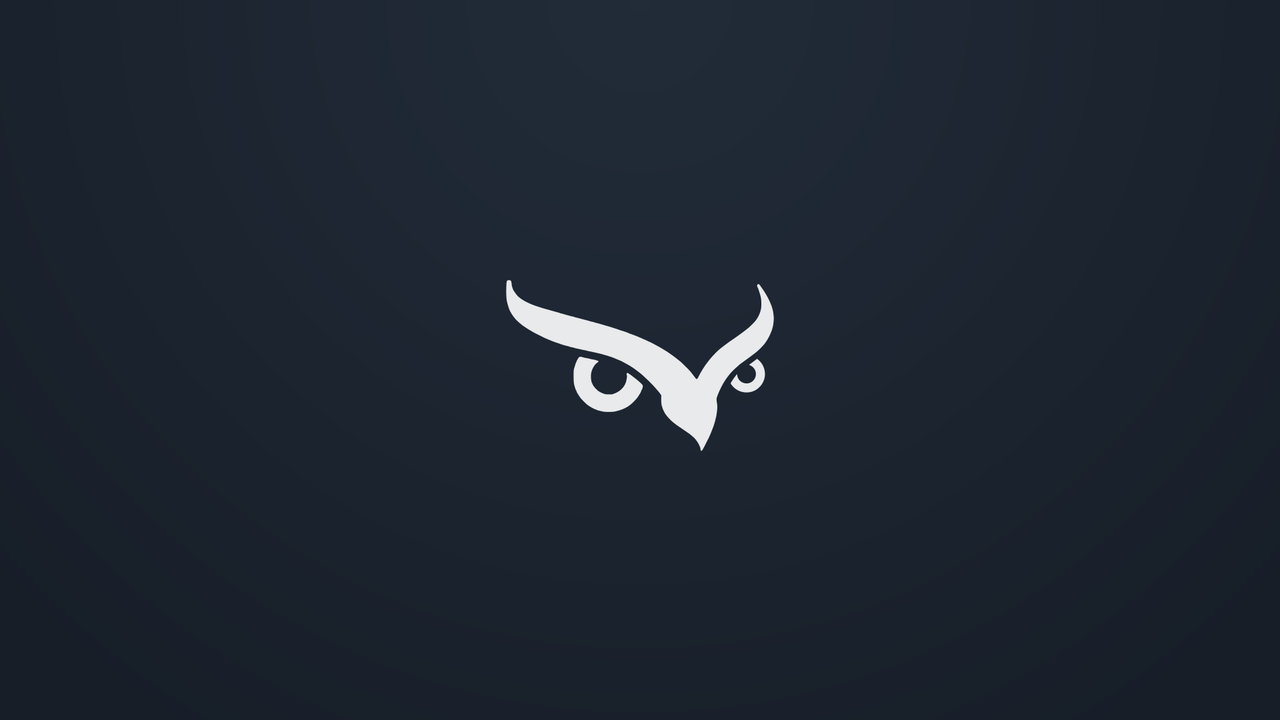
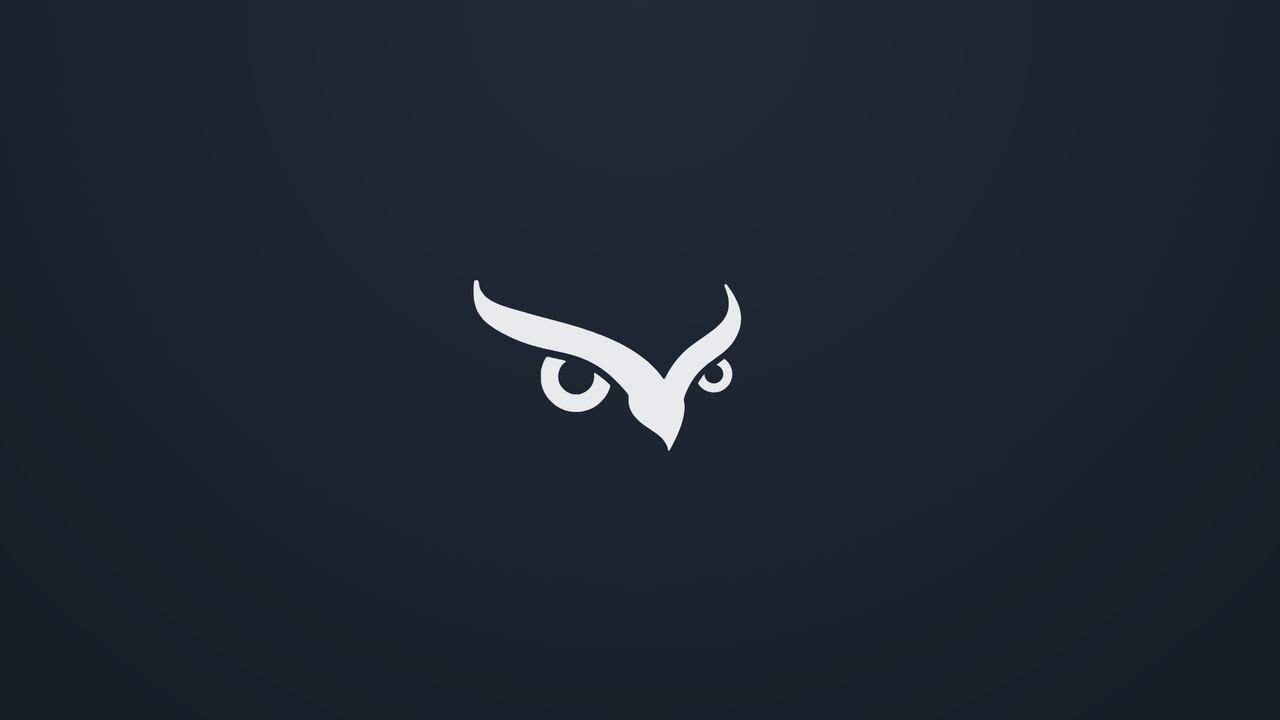
branding: centre the owl on the midpoint between its eyes (unlock, login, lock, wallpaper); drop the Plymouth padlock

Changed region(s): [[0.3438, 0.3972, 0.625, 0.6111]]

diff --git a/cachyos/sddm-theme/slievr-cachy/Main.qml b/cachyos/sddm-theme/slievr-cachy/Main.qml
@@ -57,6 +57,8 @@ Rectangle {
       height: sourceSize.width > 0 ? Math.round(width * sourceSize.height / sourceSize.width) : 0
       fillMode: Image.PreserveAspectFit
       anchors.horizontalCenter: parent.horizontalCenter
+      // the owl's visual centre (between the eyes) is 61.7% across; shift it onto the axis
+      anchors.horizontalCenterOffset: -Math.round(width * 0.117)
     }
 
     Text {
